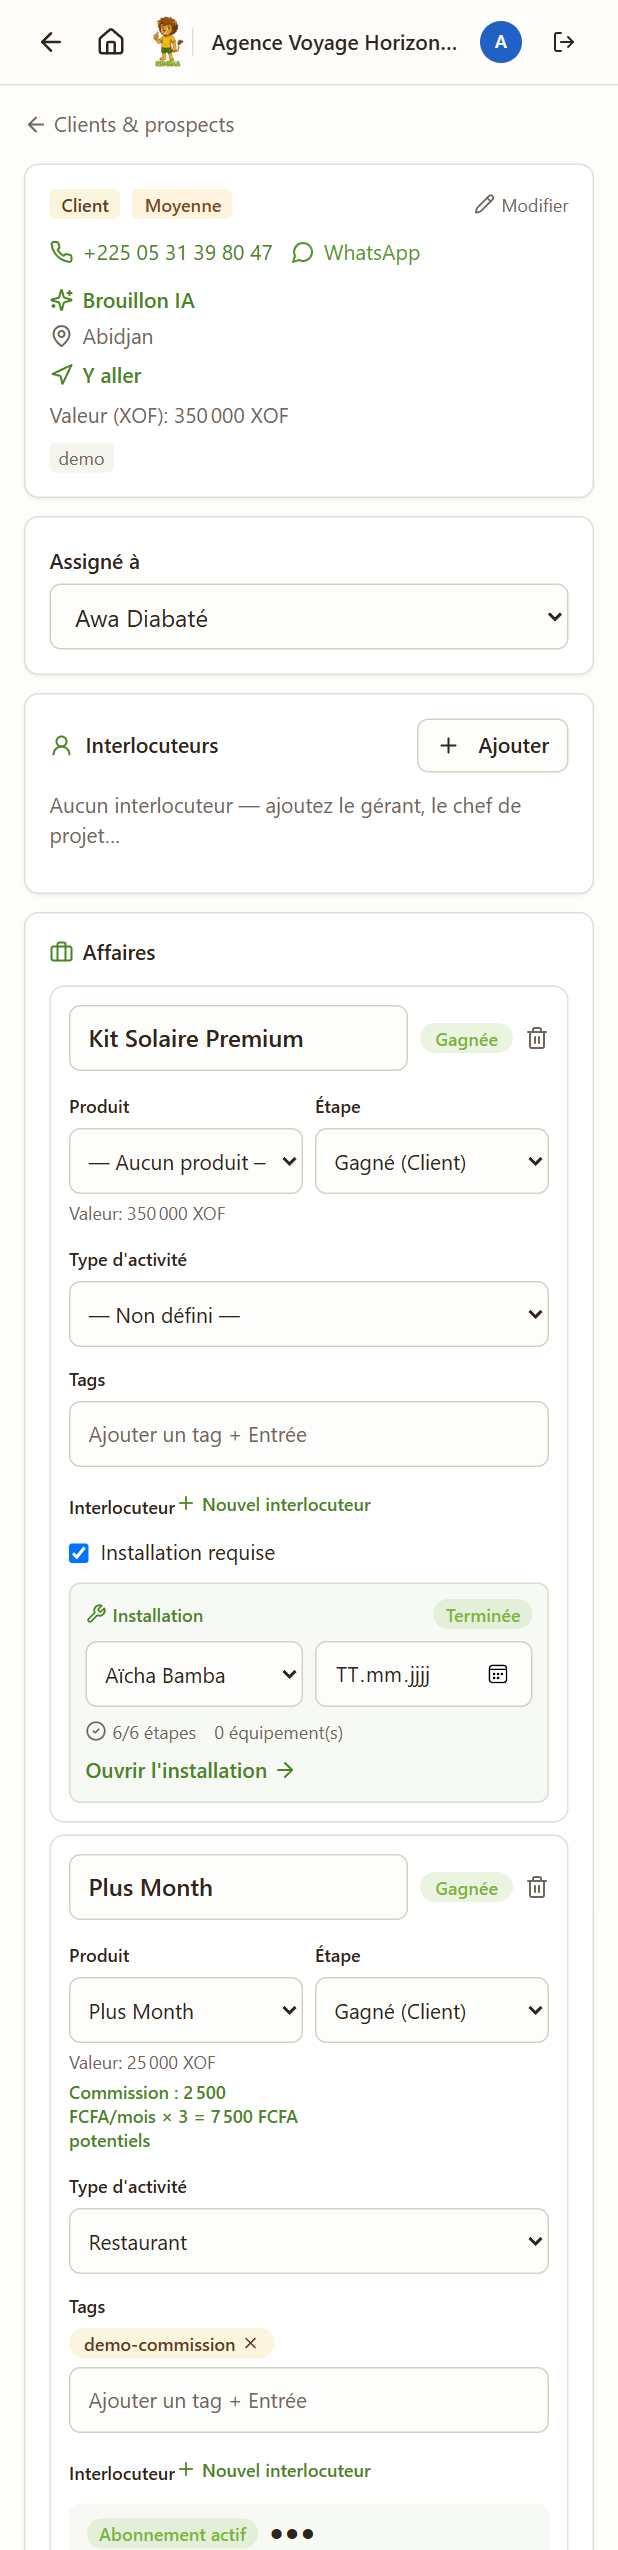
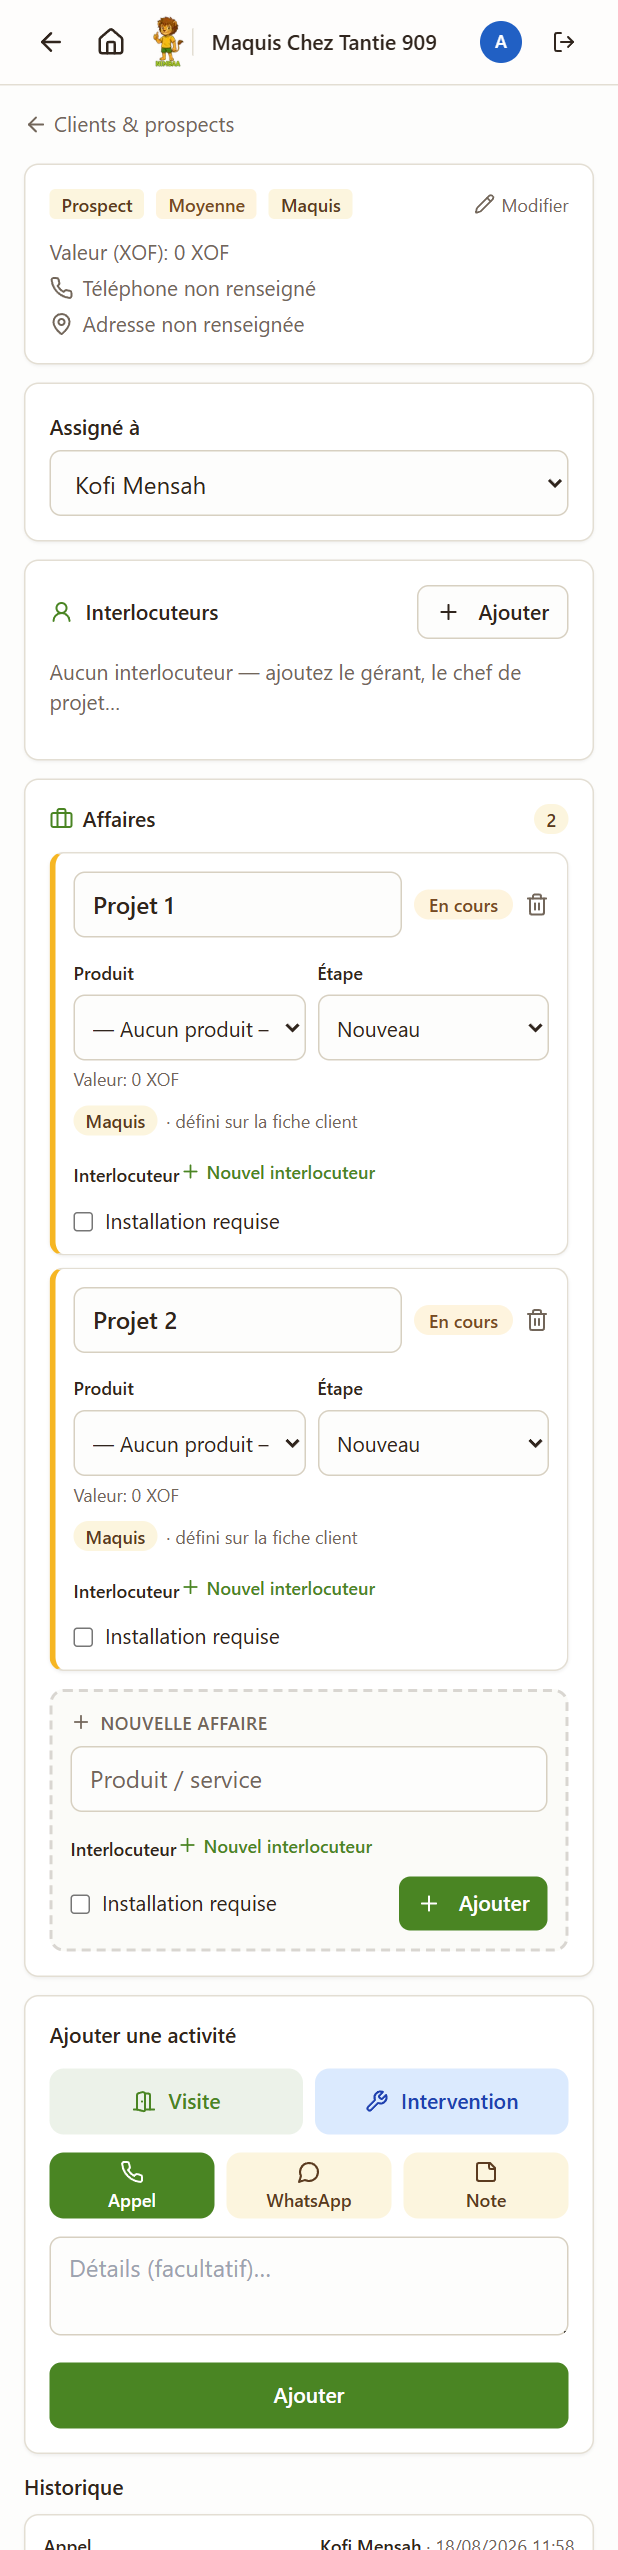
Manual: the type belongs to the business, and affaires have names
The guide still told people the type d'activité and the tags lived on each
affaire. They moved to the customer, so that passage was teaching the opposite
of what the app now does.

- 5 · the fiche's three identity chips — statut, priorité, type d'activité —
  and the affaire reduced to what it actually holds, product and stage
- 5 · the astuce now says where those are set: once, on the fiche or at
  creation, and every affaire inherits. Plus what the dashed chip means when
  the type is missing, and why it matters — no type, no appearance in any
  count by type
- 5b · two new points: affaires are named Projet 1, Projet 2 in order of
  creation and stay renameable, and the chip reading "défini sur la fiche
  client" is inherited rather than asked for
- 5e · the creation form now captures both, so the step list says so

Three screenshots reshot: the fiche header with its type chip, the affaires
with inherited chips and numbered names, and the prospect form with its two
new fields.

diff --git a/public/manuel.html b/public/manuel.html
@@ -503,13 +503,15 @@
     <ul>
       <li><strong>Coordonnées</strong> — le téléphone est saisi avec l'indicatif pays (🇨🇮 +225 par défaut, modifiable). Le bouton <strong>WhatsApp</strong> ouvre une conversation directement, avec un brouillon de message proposé par l'IA.</li>
       <li><strong>Interlocuteurs</strong> — les personnes chez le client (rôle par défaut : <em>Gérant</em>), reliables aux affaires.</li>
-      <li><strong>Affaires (deals)</strong> — le produit proposé, l'étape du pipeline, le <strong>type d'activité</strong> (Maquis, Restaurant, Glacier, Chawarma, Supérette…) et des <strong>tags</strong> libres pour catégoriser. C'est ici que se joue le passage de prospect à client — voir juste après.</li>
+      <li><strong>Identité du commerce</strong> — en haut de la fiche, trois pastilles disent ce qu'est ce client : son <strong>statut</strong> (Prospect / Client), sa <strong>priorité</strong> et son <strong>type d'activité</strong> (Maquis, Restaurant, Glacier, Chawarma, Supérette…). Les <strong>tags</strong> libres suivent en dessous.</li>
+      <li><strong>Affaires (deals)</strong> — le produit proposé et l'étape du pipeline. C'est ici que se joue le passage de prospect à client — voir juste après.</li>
       <li><strong>Abonnement</strong> — sur un client gagné : le forfait actif, sa date de début et son statut. Le manager peut y déclarer une <strong>résiliation</strong>.</li>
       <li><strong>Historique</strong> — les passages commerciaux <em>et</em> techniques dans une seule liste, avec photos, durées et résultat (voir 5d).</li>
     </ul>
     <div class="callout tip">
       <span class="lbl">Astuce</span>
-      <p>Renseignez toujours le <strong>type d'activité</strong> et quelques <strong>tags</strong> : ils alimentent les briefs IA, les filtres de statistiques et le pipeline.</p>
+      <p>Renseignez toujours le <strong>type d'activité</strong> et quelques <strong>tags</strong> : ils alimentent les briefs IA, les filtres de statistiques et le pipeline. Ils se saisissent <strong>une seule fois, sur la fiche</strong> (<span class="btn-ref">✎ Modifier</span>) ou à la création du prospect — un maquis reste un maquis quel que soit le forfait qu'on lui vend. Toutes ses affaires en héritent.</p>
+      <p>Quand le type manque, la fiche l'affiche en pastille en pointillés : touchez-la pour le renseigner. Ce n'est pas un détail — sans lui, ce client est absent de tous les comptages par type.</p>
     </div>
   </div>
   <figure class="phone">
@@ -564,6 +566,12 @@
       <tr><td>Un cadre <strong>gris en pointillés</strong>, titré <strong>+ NOUVELLE AFFAIRE</strong></td><td>Le formulaire pour en créer une. Rien n'y est encore enregistré — c'est la même écriture « emplacement vide » que les cases photo.</td></tr>
     </table></div>
     <p>Le compteur à droite du titre <strong>Affaires</strong> annonce combien il y en a.</p>
+
+    <h4>Le nom d'une affaire</h4>
+    <p>Une affaire est un <strong>projet</strong> avec ce client — un forfait, une extension, un renouvellement. Les nouvelles sont nommées <strong>Projet 1</strong>, <strong>Projet 2</strong>… dans l'ordre de création, pour qu'on puisse en parler tout de suite. Le titre reste modifiable : touchez-le et écrivez « Forfait Power Up boutique 2 » si c'est plus parlant.</p>
+
+    <h4>Ce que l'affaire hérite</h4>
+    <p>Sous le produit, une pastille rappelle le <strong>type d'activité</strong> du commerce suivie de « · défini sur la fiche client ». L'affaire ne le demande pas : elle le tient de la fiche, et toutes les affaires d'un même client portent donc la même chose. Pour le corriger, passez par <span class="btn-ref">✎ Modifier</span> en haut de la fiche — le changement descend aussitôt sur toutes ses affaires.</p>
   </div>
   <figure class="phone">
     <img src="/manuel/16-deal-stage.png" alt="Bloc Affaires : une affaire existante à barre ambre au-dessus du cadre en pointillés Nouvelle affaire" />
@@ -622,7 +630,8 @@
       <li><strong>Nom de l'enseigne</strong> — le seul champ obligatoire.</li>
       <li><strong>Téléphone</strong> — avec l'indicatif 🇨🇮 +225 par défaut, modifiable.</li>
       <li><strong>Adresse</strong> — trois façons de la poser, selon où vous êtes (voir ci-dessous).</li>
-      <li><span class="btn-ref">Créer le prospect</span> vous dépose sur sa fiche, où se saisissent le type d'activité, les tags et l'affaire.</li>
+      <li><strong>Type d'activité</strong> et <strong>tags</strong> — ce qu'est le commerce. Saisis ici, ils vaudront pour toutes ses affaires.</li>
+      <li><span class="btn-ref">Créer le prospect</span> vous dépose sur sa fiche, où se saisit l'affaire.</li>
     </ol>
     <p>La fiche vous est <strong>attribuée</strong>, comme un prospect créé depuis une visite. Elle apparaît aussitôt dans l'onglet <em>Prospects</em>.</p>
 
